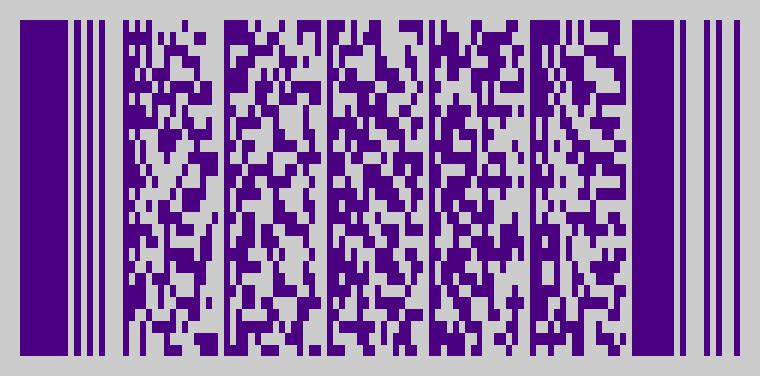
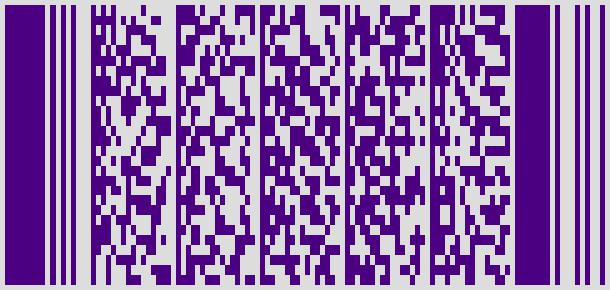
Better rendering example
[ci skip]

diff --git a/README.md b/README.md
@@ -83,7 +83,7 @@ Colors can be specified as hex codes or using HTML color names.
 
 ```py
 codes = encode(text, columns=3)
-image = render_image(codes, scale=6, ratio=2, fg_color="Indigo", bg_color="#ccc")
+image = render_image(codes, scale=5, ratio=2, padding=5, fg_color="Indigo", bg_color="#ddd")
 image.show()
 ```
 
